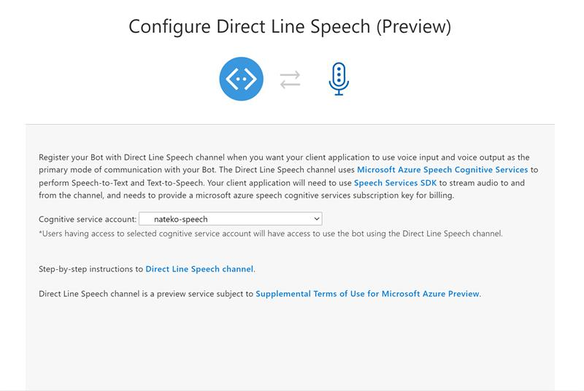
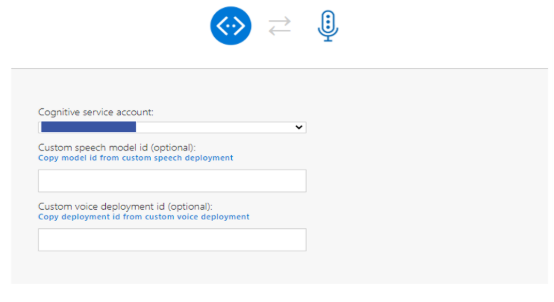
Updated image, fixed content based on feedback, added image tooltips

Changed region(s): [[0.0614, 0.3576, 0.9206, 0.6258], [0.0307, 0.0, 0.9819, 0.2682], [0.0614, 0.6556, 0.8285, 0.7748]]

diff --git a/articles/bot-service-channel-connect-directline.md b/articles/bot-service-channel-connect-directline.md
@@ -25,11 +25,11 @@ The first thing you must do is to add the Direct Line channel to the bot.
 1. In the left panel, click the **Channels** item.
 1. In the right panel, under *Add a featured channel*, click the **Direct Line** icon (marked in red in the picture below).
 
-    ![Add Direct Line channel](media/bot-service-channel-connect-directline/add-directline-channel.png)
+    ![Add Direct Line channel](media/bot-service-channel-connect-directline/add-directline-channel.png "Add Direct Line channel")
 
 1. The **Configure Direct Line** page is displayed. Click the **Done** button at the bottom of the page. This adds the Direct Line channel to the bot, as shown in the picture below.
 
-    ![Added Direct Line channel](media/bot-service-channel-connect-directline/added-directline-channel.png)
+    ![Added Direct Line channel](media/bot-service-channel-connect-directline/added-directline-channel.png "Added Direct Line channel")
 
 ## Add new site
 
@@ -46,11 +46,11 @@ When you add the Direct Channel, the Bot Framework generates secret keys. Your c
 
 1. In *Configure Direct Line*, to view a key in plain text, click **Show** for the corresponding key.
 
-    ![Show Direct Line key](media/bot-service-channel-connect-directline/directline-showkey.png)
+    ![Show Direct Line key](media/bot-service-channel-connect-directline/directline-showkey.png "Show Direct Line key")
 
 1. Copy and securely store the key. Use the key to [authenticate](~/rest-api/bot-framework-rest-direct-line-3-0-authentication.md) the Direct Line API requests that your client application issues to communicate with a bot.
 
-    ![Copy Direct Line key](media/bot-service-channel-connect-directline/directline-copykey.png)
+    ![Copy Direct Line key](media/bot-service-channel-connect-directline/directline-copykey.png "Copy Direct Line key")
 
 1. Alternatively, use the Direct Line API to [exchange the key for a token](~/rest-api/bot-framework-rest-direct-line-3-0-authentication.md#generate-token) that your client can use to authenticate its subsequent requests within the scope of a single conversation.
 
@@ -79,7 +79,7 @@ The example contains two projects:
 
 ### Direct Line API
 
-- Credentials for the Direct Line API must be obtained from the Bot Channels Registration in the Azure portal, and will only allow the caller to connect to the bot for which they were generated. In the bot project, update the `appsettings.json` file with these values.
+- Credentials for the Direct Line API must be obtained from the Bot Channels Registration or the Web App Bot in the Azure portal, and will only allow the caller to connect to the bot for which they were generated. In the bot project, update the `appsettings.json` file with these values.
 
     ```csharp
     {
@@ -90,13 +90,11 @@ The example contains two projects:
 
 - In the Azure portal, enable Direct Line in the channels list and then, configure the Direct Line secret. Make sure that the checkbox for version 3.0 is checked. In the console client project update the `App.config` file with the Direct Line secret key and the bot handle (Bot Id).
 
-    ```json
-    {
+    ```xml
     <appSettings>
         <add key="DirectLineSecret" value="YourBotDirectLineSecret" />
         <add key="BotId" value="YourBotHandle" />
     </appSettings>
-    }
     ```
 
 User messages are sent to the Bot using the Direct Line Client `Conversations.PostActivityAsync` method using the `ConversationId` generated previously.

diff --git a/articles/bot-service-channel-connect-directlinespeech.md b/articles/bot-service-channel-connect-directlinespeech.md
@@ -38,15 +38,17 @@ You also need a bot deployed in Azure,
 
 ## Add the Direct Line Speech channel
 
-1. To add the Direct Line Speech Channel, first open the bot in the [Azure Portal](https://portal.azure.com), From your resources, select your **Bot Channel Registration** resource. Click on **Channels** in the configuration blade.
+1. In your browser, navigate to the [Azure Portal](https://portal.azure.com).
+1. From your resources, select the **Bot Channel Registration** or **Web App Bot** resource, depending on how you deployed the bot.
+1. In the left panel, select  **Channels**.
 
-    ![highlight of the location for selecting channels to connect to](media/voice-first-virtual-assistants/bot-service-channel-directlinespeech-selectchannel.png "selecting channels")
+    ![selecting channels](media/voice-first-virtual-assistants/bot-service-channel-directlinespeech-selectchannel.png "selecting channels")
 
-1. In the channel selection page, find and click `Direct Line Speech` to choose the channel.
+1. In right panel, click the `Direct Line Speech` icon.
 
     ![selecting direct line speech channel](media/voice-first-virtual-assistants/bot-service-channel-directlinespeech-connectspeechchannel.png "connecting Direct Line Speech")
 
-1. Configure the Direct Line Speech as shown in the picture below.
+1. Configure the Direct Line Speech as shown in the picture below. Specifically, add the Cognitive service account (**speech service**) mentioned in the [Prerequisites](#Prerequisites) section.
 
     ![configure direct line speech channel](media/voice-first-virtual-assistants/bot-service-channel-directlinespeech-cognitivesericesaccount-selection.png "selecting Cognitive Services resource")
 
@@ -92,4 +94,8 @@ See also [Tutorial: Voice-enable your bot using the Speech SDK](https://docs.mic
 
 ## Adding protocol support to your bot
 
-With the Direct Line Speech channel connected and support for the Bot Framework Protocol Streaming Extensions enabled, all that's left is to add code to your bot to support the optimized communication. Follow the instructions on [adding Streaming Extensions support to your bot](https://aka.ms/botframework/addstreamingprotocolsupport) to ensure full compatibility with Direct Line Speech.
+> [!NOTE]
+> The following step is only needed for bots built before the release of the 4.8 SDKs.
+
+With the Direct Line Spe
+ech channel connected and support for the Bot Framework Protocol Streaming Extensions enabled, all that's left is to add code to your bot to support the optimized communication. Follow the instructions on [adding Streaming Extensions support to your bot](https://aka.ms/botframework/addstreamingprotocolsupport) to ensure full compatibility with Direct Line Speech.

diff --git a/articles/bot-service-channel-directline-extension.md b/articles/bot-service-channel-directline-extension.md
@@ -17,7 +17,7 @@ ms.date: 05/19/2020
 
 The Direct Line App Service Extension allows clients to connect directly with the host, where the bot is located. It runs inside the same subscription, App Service, and Azure network as your bot and provides network isolation and, in some cases, improved performance. The client application uses [WebSocket protocol](https://tools.ietf.org/html/rfc6455) to communicate with the bot. The following picture shows the overall architecture:
 
-![Direct line extension architecture](./media/channels/direct-line-extension-architecture.png)
+![Direct line extension architecture](./media/channels/direct-line-extension-architecture.png "Direct line extension architecture")
 
 > NOTE
 > If you want to use the standard Direct Line channel with your bot, refer to [Connect a bot to Direct Line](bot-service-channel-connect-directline.md).
